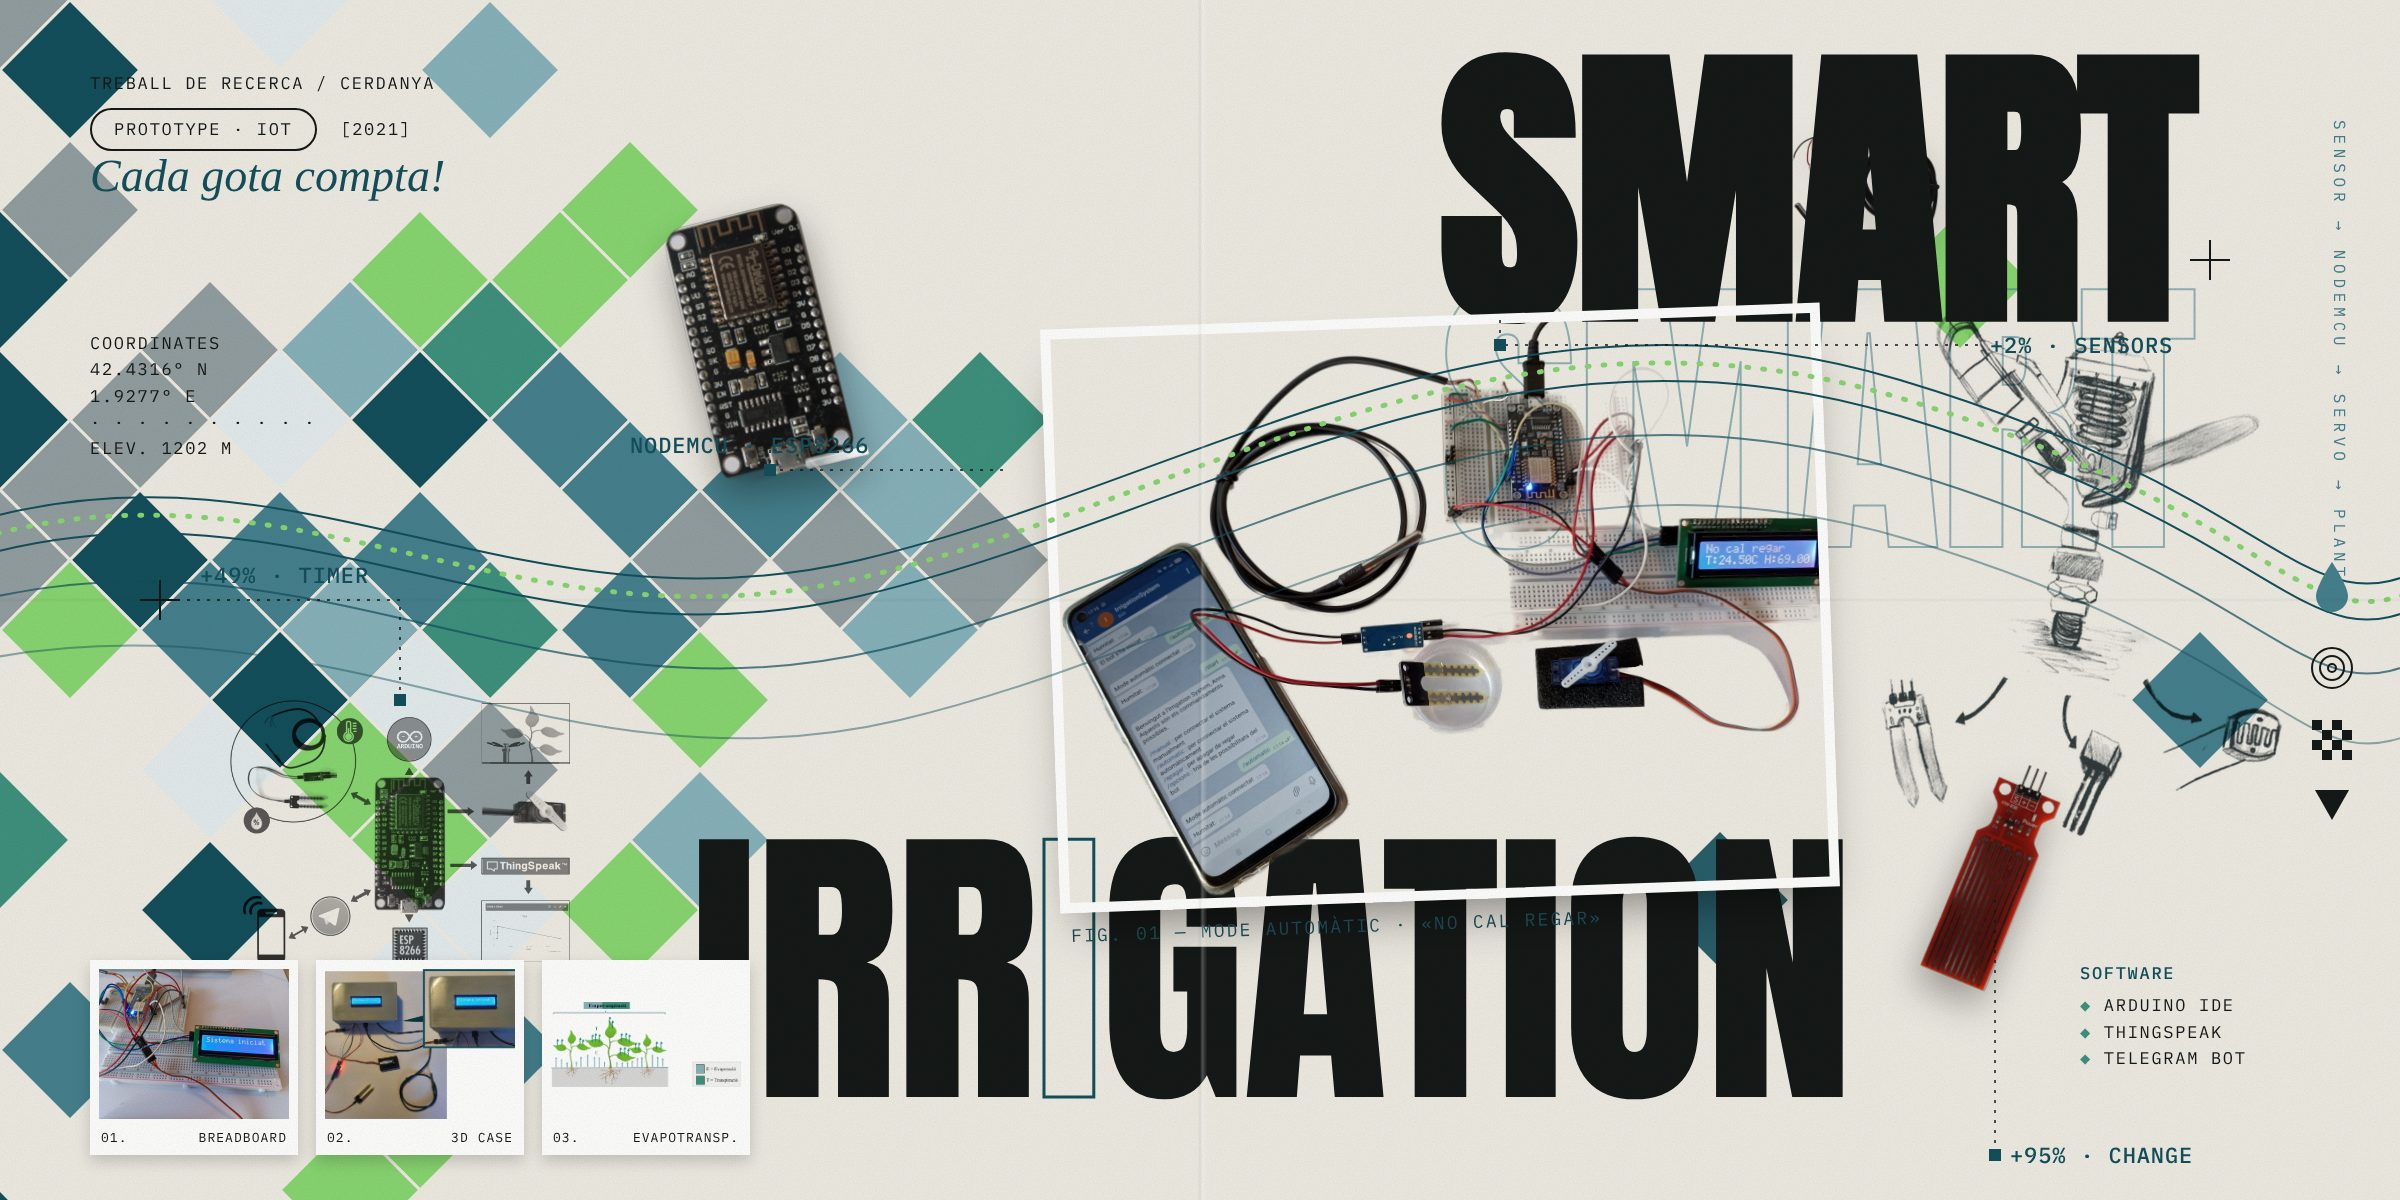
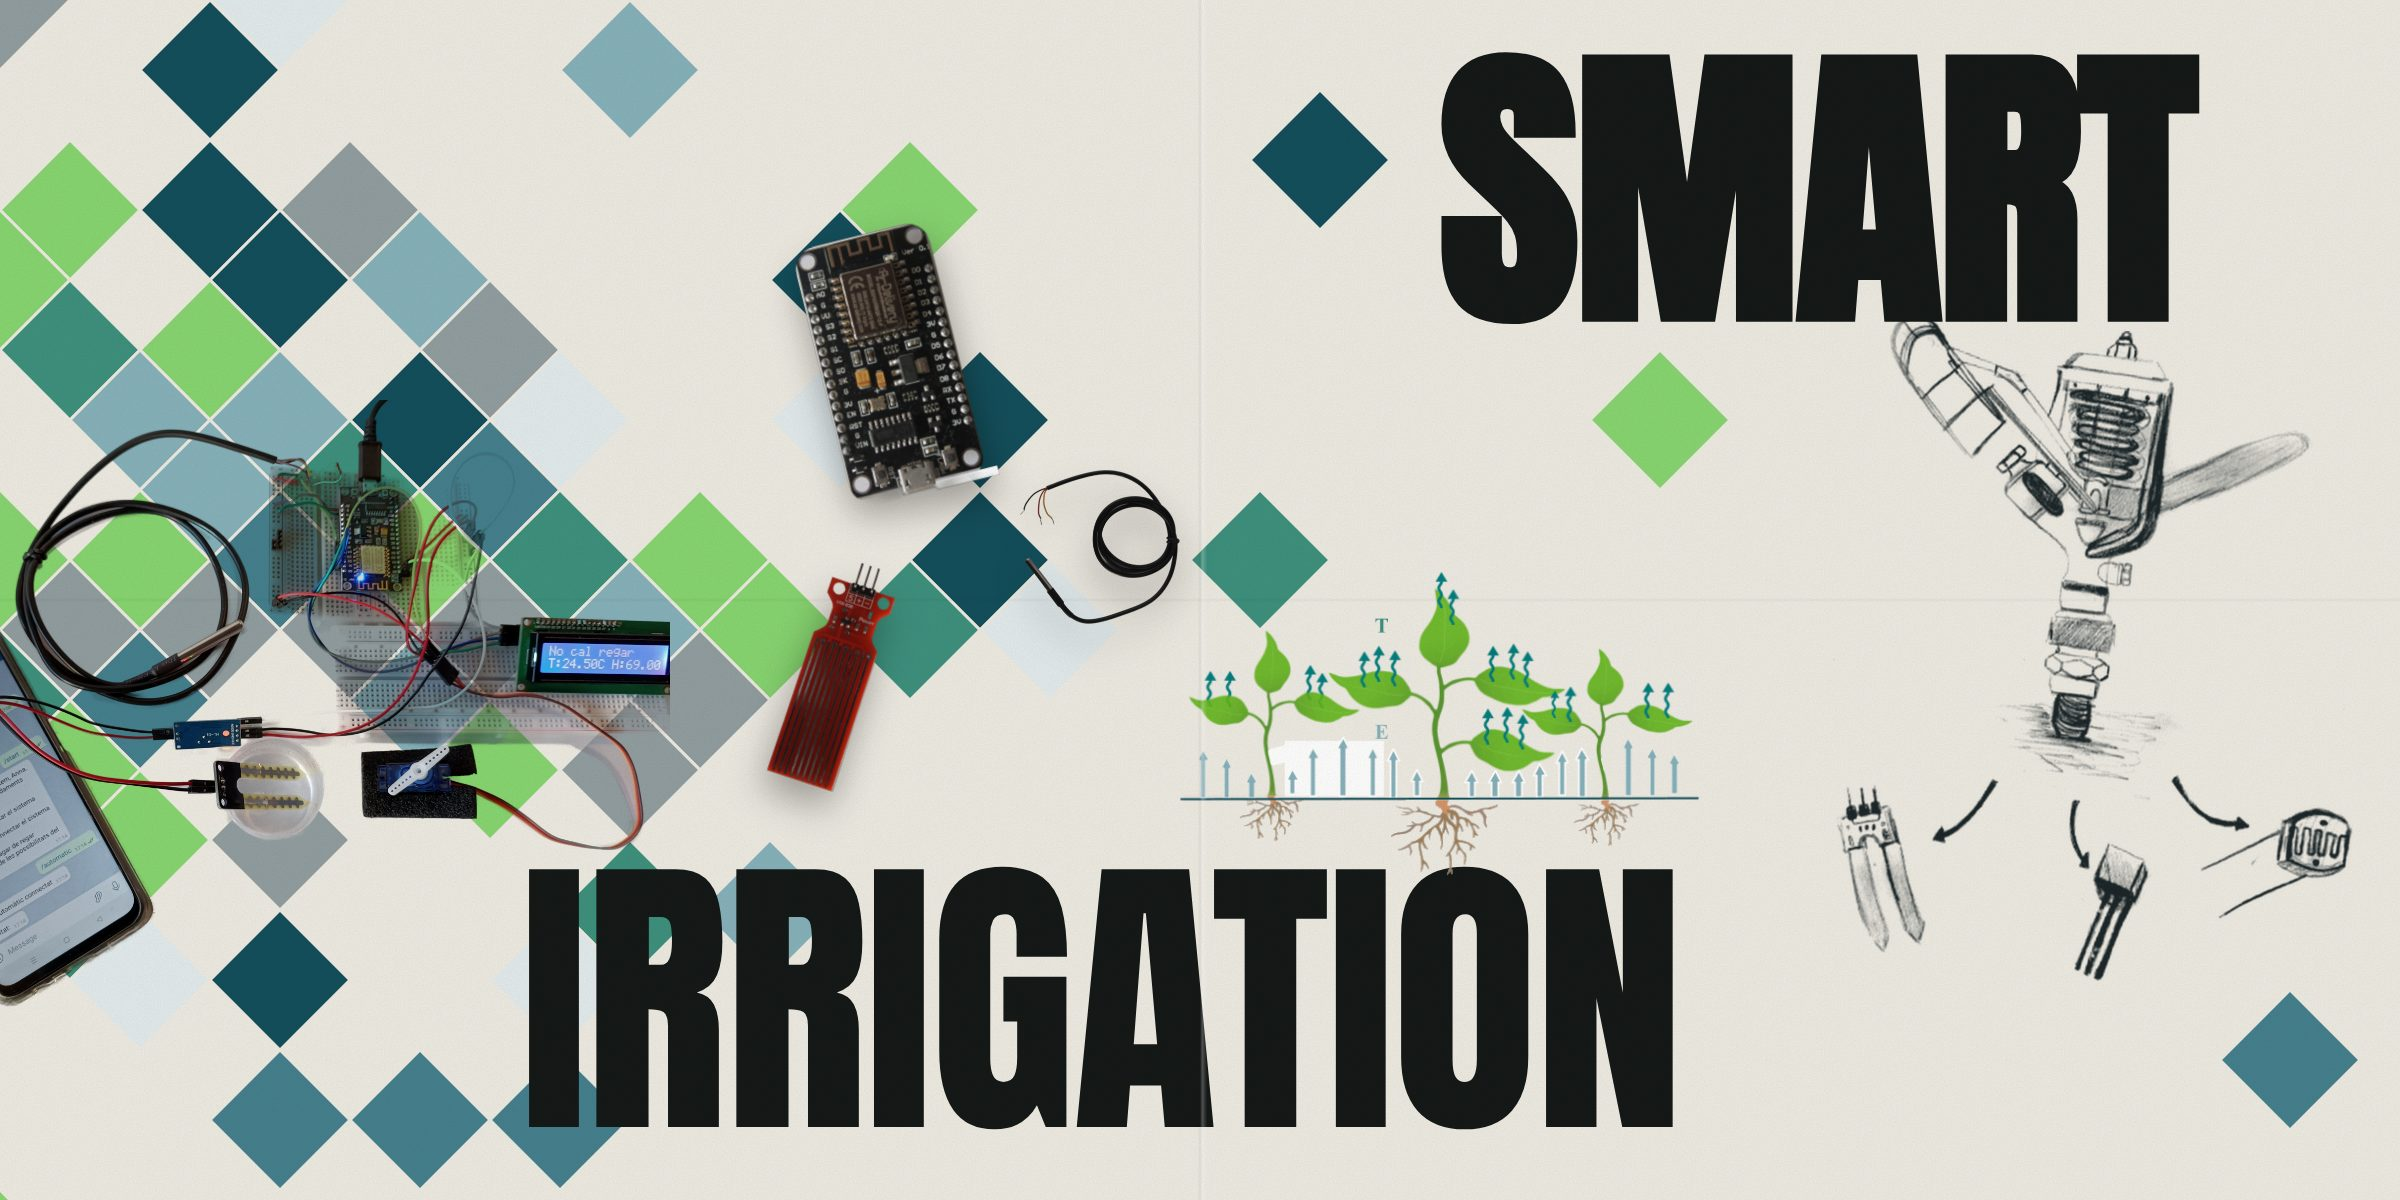
Billboard: cleaner layout, only title text, plant scheme, components on tiles
Claude-Session: https://claude.ai/code/session_01PchemtfrPnXx57Zg6o9MzX

diff --git a/billboard/smart-irrigation.html b/billboard/smart-irrigation.html
@@ -28,109 +28,36 @@
 
   svg.tiles, svg.lines { inset: 0; width: 100%; height: 100%; }
   svg.tiles { z-index: 2; }
-  svg.lines { z-index: 9; pointer-events: none; }
-  .flow { stroke-dasharray: 2 14; animation: drip 6s linear infinite; }
-  @keyframes drip { to { stroke-dashoffset: -160; } }
-  @media (prefers-reduced-motion: reduce) { .flow { animation: none; } }
 
-  /* Title: stacked condensed letters, one hidden behind the prototype photo */
-  .t { font-family: Anton, Impact, sans-serif; line-height: .8; text-transform: uppercase; letter-spacing: -.01em; margin: 0; }
-  .t-smart { left: 1440px; top: 70px; font-size: 300px; z-index: 6; color: var(--black); }
-  .t-irr { left: 690px; top: 850px; font-size: 300px; z-index: 4; color: var(--black); white-space: nowrap; }
-  .t-irr .ghost { color: transparent; -webkit-text-stroke: 3px var(--ink); }
-  .t-echo { left: 1440px; top: 300px; font-size: 300px; z-index: 3; color: transparent; -webkit-text-stroke: 2px var(--teal); opacity: .55; }
+  /* Title: stacked condensed letters; the first I of IRRIGATION hides behind the photo */
+  .t { font-family: Anton, Impact, sans-serif; line-height: .8; text-transform: uppercase; letter-spacing: -.01em; margin: 0; color: var(--black); }
+  .t-smart { left: 1440px; top: 70px; font-size: 300px; z-index: 6; }
+  .t-irr { left: 520px; top: 880px; font-size: 300px; z-index: 4; white-space: nowrap; }
 
-  .photo { left: 1010px; top: 300px; width: 760px; z-index: 7; box-shadow: 0 30px 50px -20px rgba(0,0,0,.45);
-    filter: saturate(.75) contrast(1.05); border: 10px solid #fff; transform: rotate(-2deg); }
-  .photo img { display: block; width: 100%; }
-  .photo figcaption { position: absolute; left: 0; bottom: -44px; font-size: 18px; letter-spacing: .12em; color: var(--ink); }
-
-  .sketch { left: 1880px; top: 330px; width: 420px; height: 520px; z-index: 5; mix-blend-mode: multiply;
-    background: url("../images/smart-irrigation/sketch.png") center top / 420px auto no-repeat; transform: rotate(8deg); opacity: .9; }
-  .logic { left: 230px; top: 700px; width: 340px; z-index: 5; mix-blend-mode: multiply; filter: grayscale(1) contrast(1.2); opacity: .8; }
+  .photo { left: -150px; top: 400px; width: 820px; z-index: 7; filter: saturate(.8) contrast(1.05); }
+  .sketch { left: 1830px; top: 330px; width: 540px; height: 660px; z-index: 5; mix-blend-mode: multiply;
+    background: url("../images/smart-irrigation/sketch.png") center top / contain no-repeat; transform: rotate(6deg); }
+  .plant { left: 1180px; top: 566px; width: 520px; z-index: 5; }
   .comp { z-index: 8; filter: drop-shadow(0 18px 18px rgba(0,0,0,.35)); }
-  .c-node { left: 690px; top: 210px; width: 150px; transform: rotate(-14deg); }
-  .c-water { left: 1960px; top: 760px; width: 70px; transform: rotate(22deg); }
-  .c-temp { left: 1790px; top: 120px; width: 150px; z-index: 5; }
-
-  .cards { left: 90px; top: 960px; display: flex; gap: 18px; z-index: 10; }
-  .card { width: 190px; background: #fff; padding: 9px 9px 0; box-shadow: 0 6px 14px rgba(0,0,0,.18); }
-  .card div { height: 150px; background: #fff center / contain no-repeat; }
-  .card p { display: flex; justify-content: space-between; margin: 0; padding: 10px 2px 9px; font-size: 13px; letter-spacing: .08em; text-transform: uppercase; }
-
-  .meta { z-index: 11; font-size: 17px; line-height: 1.55; letter-spacing: .1em; text-transform: uppercase; color: var(--black); }
-  .meta b { font-weight: 500; color: var(--ink); }
-  .m-top { left: 90px; top: 70px; }
-  .m-head { left: 90px; top: 140px; font-family: Tinos, serif; font-style: italic; text-transform: none; letter-spacing: 0; font-size: 46px; color: var(--ink); }
-  .pill { display: inline-block; border: 2px solid var(--black); border-radius: 99px; padding: 6px 22px; margin-top: 12px; }
-  .m-soft { left: 2080px; top: 960px; text-align: left; }
-  .m-soft ul { list-style: none; margin: 6px 0 0; padding: 0; }
-  .m-soft li::before { content: "◆ "; color: var(--green); }
-  .tag { z-index: 11; font-size: 22px; font-weight: 500; color: var(--ink); letter-spacing: .04em; }
-  .vert { left: 2330px; top: 120px; z-index: 11; writing-mode: vertical-rl; font-size: 16px; letter-spacing: .3em; color: var(--teal); text-transform: uppercase; }
-  .icons { left: 2310px; top: 560px; z-index: 11; display: grid; gap: 30px; justify-items: center; }
+  .c-node { left: 820px; top: 230px; width: 150px; transform: rotate(-14deg); }
+  .c-temp { left: 1020px; top: 470px; width: 160px; }
+  .c-water { left: 800px; top: 560px; width: 70px; transform: rotate(18deg); }
 </style>
 </head>
 <body>
-<main class="board" id="board" aria-label="Billboard: Smart irrigation — Cada gota compta!">
+<main class="board" id="board" aria-label="Billboard: Smart irrigation">
   <svg class="tiles" id="tiles" viewBox="0 0 2400 1200" aria-hidden="true"></svg>
 
-  <p class="t t-echo" aria-hidden="true">Smart</p>
   <h1 class="t t-smart">Smart</h1>
-  <p class="t t-irr" aria-label="Irrigation">Irr<span class="ghost">i</span>gation</p>
+  <p class="t t-irr" aria-label="Irrigation">Irrigation</p>
 
-  <figure class="photo">
-    <img src="../images/smart-irrigation/working.png" alt="Prototype working: Telegram bot in automatic mode, sensors, NodeMCU, servo and LCD reading No cal regar">
-    <figcaption>FIG. 01 — MODE AUTOMÀTIC · «NO CAL REGAR»</figcaption>
-  </figure>
-  <div class="sketch" role="img" aria-label="Pencil sketch of a sprinkler"></div>
-  <img class="logic" src="../images/smart-irrigation/logica.png" alt="">
+  <img class="photo" src="../images/smart-irrigation/working.png" alt="Prototype working: Telegram bot, sensors, NodeMCU, servo and LCD reading No cal regar">
+  <div class="sketch" role="img" aria-label="Pencil sketch of a sprinkler and its sensors"></div>
+  <img class="plant" src="../images/smart-irrigation/plant-scheme.png" alt="Scheme of plants: evaporation from the soil and transpiration from the leaves">
+
   <img class="comp c-node" src="../images/smart-irrigation/tile-nodemcu.png" alt="NodeMCU board">
-  <img class="comp c-water" src="../images/smart-irrigation/tile-water-sensor.png" alt="Soil humidity sensor">
   <img class="comp c-temp" src="../images/smart-irrigation/tile-temperature.png" alt="Temperature sensor">
-
-  <svg class="lines" viewBox="0 0 2400 1200" aria-hidden="true" fill="none">
-    <g stroke="#134f5c" stroke-width="2">
-      <path d="M-20 520 C 300 430, 520 640, 860 560 S 1500 260, 1900 380 S 2300 640, 2440 560"/>
-      <path d="M-20 556 C 300 466, 520 676, 860 596 S 1500 296, 1900 416 S 2300 676, 2440 596"/>
-      <path d="M-20 600 C 320 520, 540 730, 880 650 S 1500 350, 1900 470 S 2300 730, 2440 650" opacity=".7"/>
-      <path d="M-20 660 C 340 590, 560 800, 900 720 S 1510 420, 1910 540 S 2300 800, 2440 720" opacity=".45"/>
-      <path class="flow" stroke="#88d671" stroke-width="5" stroke-linecap="round" d="M-20 538 C 300 448, 520 658, 860 578 S 1500 278, 1900 398 S 2300 658, 2440 578"/>
-    </g>
-    <g stroke="#141816" stroke-width="1.5" stroke-dasharray="3 7">
-      <path d="M770 300 V 470 H 1010"/>
-      <path d="M1995 900 V 1155 H 2000"/>
-      <path d="M1500 300 V 345 H 1980"/>
-      <path d="M400 700 V 600 H 160"/>
-    </g>
-    <g fill="#134f5c">
-      <rect x="764" y="464" width="12" height="12"/><rect x="1989" y="1149" width="12" height="12"/>
-      <rect x="1494" y="339" width="12" height="12"/><rect x="394" y="694" width="12" height="12"/>
-    </g>
-    <g stroke="#141816" stroke-width="2"><path d="M140 600 h40 M160 580 v40"/><path d="M2190 260 h40 M2210 240 v40"/></g>
-  </svg>
-  <span class="tag" style="left:200px;top:560px">+49% · TIMER</span>
-  <span class="tag" style="left:1990px;top:330px">+2% · SENSORS</span>
-  <span class="tag" style="left:2010px;top:1140px">+95% · CHANGE</span>
-  <span class="tag" style="left:630px;top:430px">NODEMCU · ESP8266</span>
-
-  <div class="meta m-top">Treball de recerca / Cerdanya<br><span class="pill">Prototype · IoT</span>&nbsp;&nbsp;[2021]</div>
-  <div class="meta m-head">Cada gota compta!</div>
-  <div class="meta m-soft"><b>Software</b><ul><li>Arduino IDE</li><li>ThingSpeak</li><li>Telegram bot</li></ul></div>
-  <div class="meta" style="left:90px;top:330px">Coordinates<br>42.4316° N<br>1.9277° E<br>· · · · · · · · · ·<br>Elev. 1202 m</div>
-  <div class="vert">Sensor → NodeMCU → Servo → Plant</div>
-  <div class="icons" aria-hidden="true">
-    <svg width="40" height="56" viewBox="0 0 40 56"><path d="M20 2 C 20 2, 4 26, 4 36 a16 16 0 0 0 32 0 C 36 26, 20 2, 20 2Z" fill="#45818e"/></svg>
-    <svg width="44" height="44" viewBox="0 0 44 44" fill="none" stroke="#141816" stroke-width="2"><circle cx="22" cy="22" r="20"/><circle cx="22" cy="22" r="12"/><circle cx="22" cy="22" r="4"/></svg>
-    <svg width="40" height="40" viewBox="0 0 40 40"><g fill="#141816"><rect width="10" height="10"/><rect x="20" width="10" height="10"/><rect x="10" y="10" width="10" height="10"/><rect x="30" y="10" width="10" height="10"/><rect y="20" width="10" height="10"/><rect x="20" y="20" width="10" height="10"/><rect x="10" y="30" width="10" height="10"/><rect x="30" y="30" width="10" height="10"/></g></svg>
-    <svg width="34" height="30" viewBox="0 0 34 30"><path d="M0 0 H34 L17 30Z" fill="#141816"/></svg>
-  </div>
-
-  <div class="cards">
-    <figure class="card" style="margin:0"><div style="background-image:url(../images/smart-irrigation/prototype.jpg);background-size:cover"></div><p><span>01.</span><span>Breadboard</span></p></figure>
-    <figure class="card" style="margin:0"><div style="background-image:url(../images/smart-irrigation/final.png);background-size:cover"></div><p><span>02.</span><span>3D case</span></p></figure>
-    <figure class="card" style="margin:0"><div style="background-image:url(../images/smart-irrigation/evapotranspiracio.png)"></div><p><span>03.</span><span>Evapotransp.</span></p></figure>
-  </div>
+  <img class="comp c-water" src="../images/smart-irrigation/tile-water-sensor.png" alt="Soil humidity sensor">
 
   <div class="fold"></div><div class="grain"></div>
 </main>
@@ -143,13 +70,13 @@
     `<rect x="${-S / 2}" y="${-S / 2}" width="${S}" height="${S}" fill="${fill}" stroke="#efece4" stroke-width="3" transform="translate(${x} ${y}) rotate(45)" ${extra}/>`;
   let out = "";
   for (let r = 0; r * H < 1300; r++) {
-    for (let x = (r % 2) * H; x < 1500; x += 2 * H) {
-      const y = r * H, edge = Math.min(1, x / 1350);
+    for (let x = (r % 2) * H; x < 1300; x += 2 * H) {
+      const y = r * H, edge = Math.min(1, x / 1450);
       const bulge = Math.abs(y - 560) / 700;            // band follows the middle of the board
       if (rnd() < 1 - edge * edge * 1.15 - bulge * 0.9) out += dia(x, y, C[Math.floor(rnd() * C.length)]);
     }
   }
-  out += dia(1960, 280, "#88d671") + dia(2200, 700, "#45818e") + dia(1720, 900, "#134f5c", 'opacity=".9"');
+  out += dia(1660, 420, "#88d671") + dia(2290, 1060, "#45818e") + dia(1320, 160, "#134f5c");
   document.getElementById("tiles").innerHTML = out;
 
   const fit = () => { const b = document.getElementById("board");
